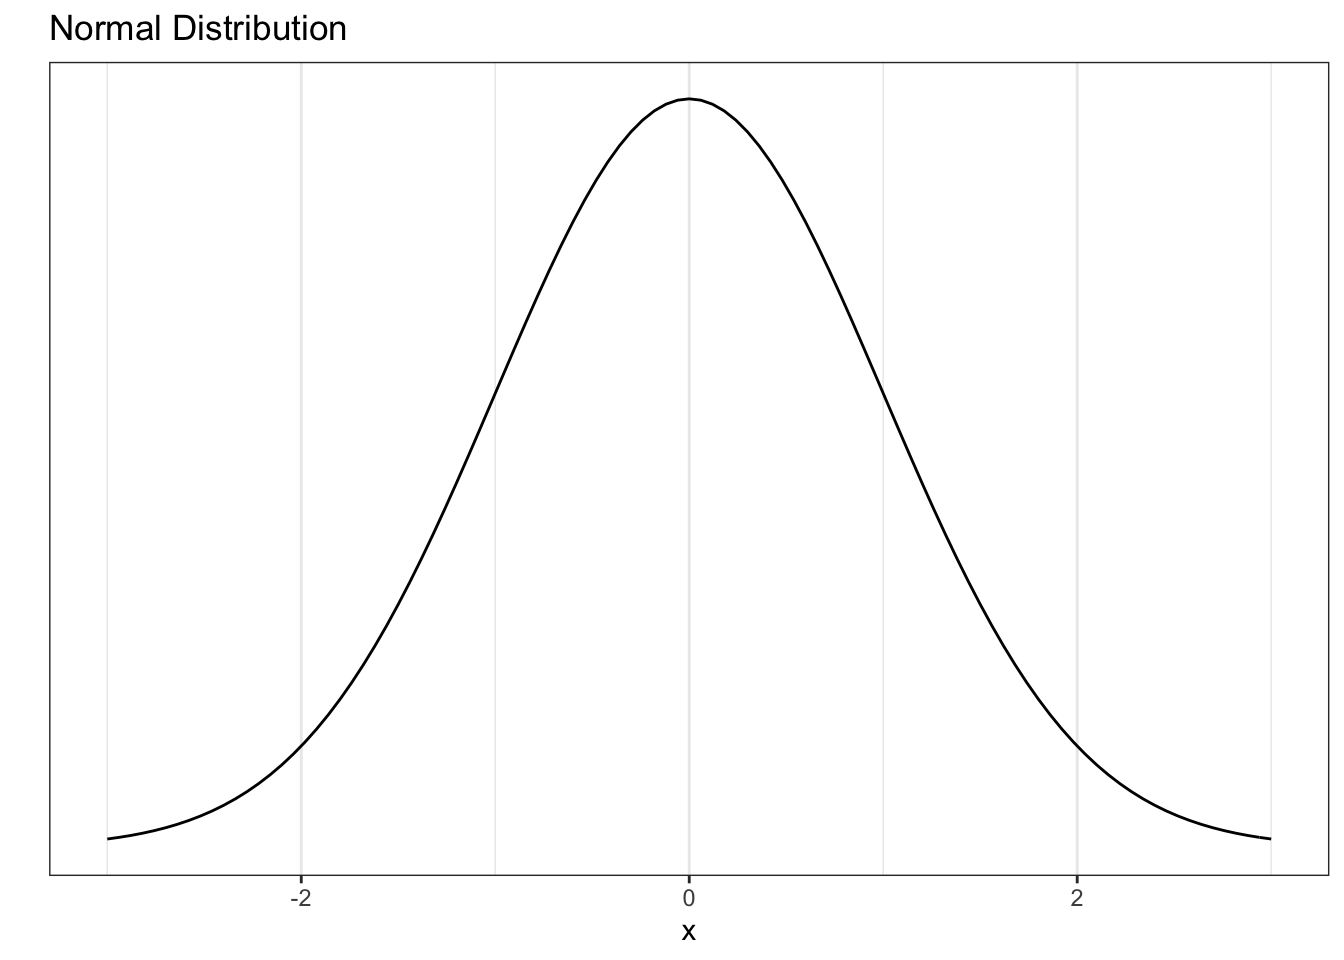
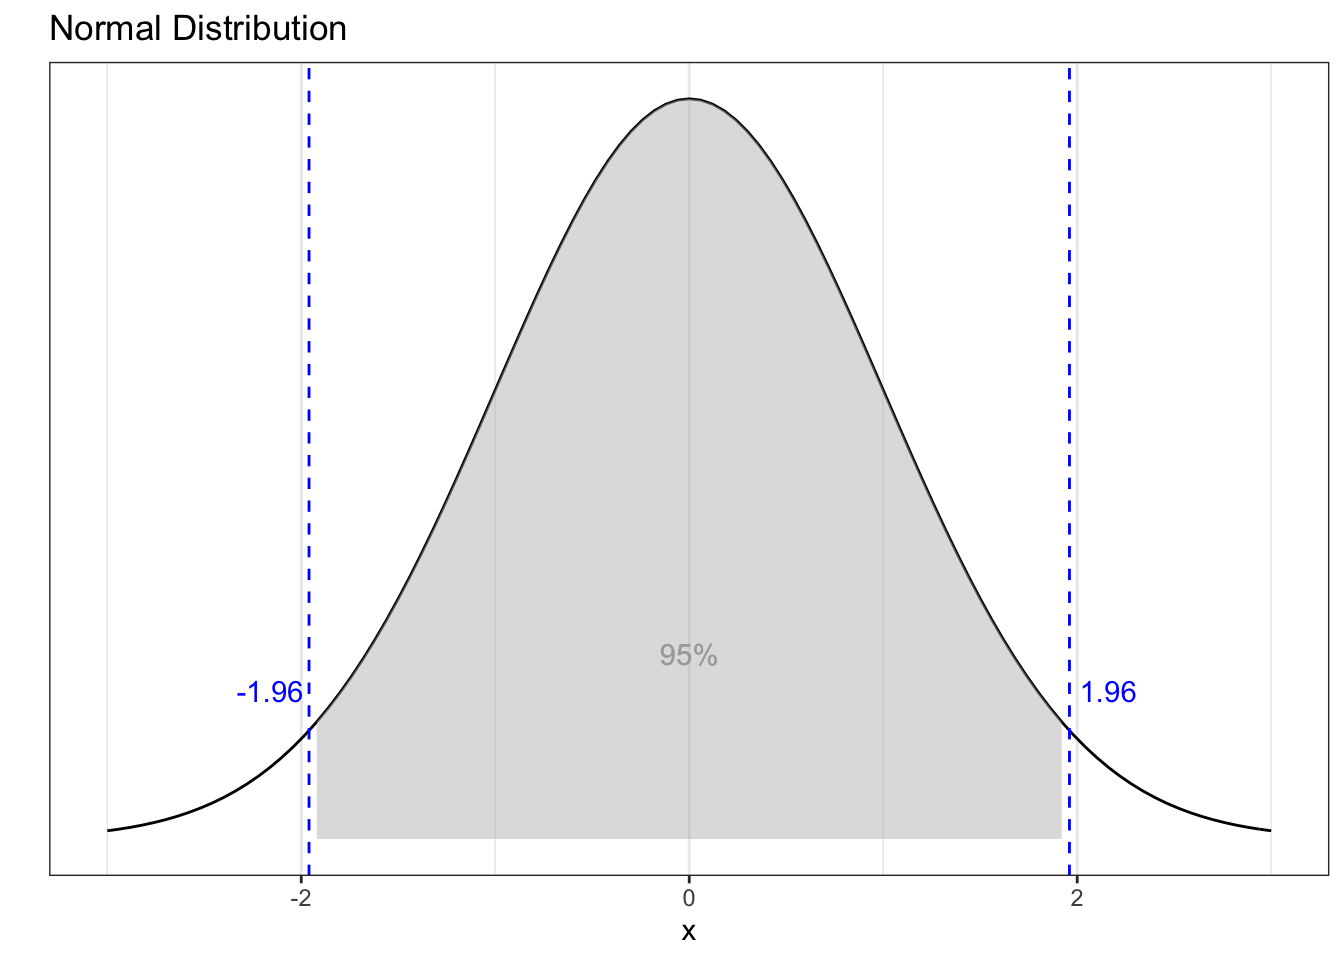
yeonkyupark published a site update

diff --git a/시각화.html b/시각화.html
@@ -156,7 +156,7 @@ code span.wa { color: #60a0b0; font-weight: bold; font-style: italic; } /* Warni
 <li class="chapter" data-level="2" data-path="데이터-전처리.html"><a href="데이터-전처리.html"><i class="fa fa-check"></i><b>2</b> 데이터 전처리<span></span></a></li>
 <li class="chapter" data-level="3" data-path="데이터-시각화.html"><a href="데이터-시각화.html"><i class="fa fa-check"></i><b>3</b> 데이터 시각화<span></span></a></li>
 <li class="part"><span><b>기계학습<span></span></b></span></li>
-<li class="part"><span><b>기계학습<span></span></b></span></li>
+<li class="part"><span><b>참고<span></span></b></span></li>
 <li class="chapter" data-level="4" data-path="시각화.html"><a href="시각화.html"><i class="fa fa-check"></i><b>4</b> 시각화<span></span></a><ul>
 <li class="chapter" data-level="4.1" data-path="시각화.html"><a href="시각화.html#확률분포-그래프-그리기"><i class="fa fa-check"></i><b>4.1</b> 확률분포 그래프 그리기<span></span></a></li>
 </ul></li>
@@ -187,11 +187,23 @@ code span.wa { color: #60a0b0; font-weight: bold; font-style: italic; } /* Warni
 <h1><span class="header-section-number">4</span> 시각화<a href="시각화.html#시각화" class="anchor-section" aria-label="Anchor link to header"></a></h1>
 <div id="확률분포-그래프-그리기" class="section level2 hasAnchor">
 <h2><span class="header-section-number">4.1</span> 확률분포 그래프 그리기<a href="시각화.html#확률분포-그래프-그리기" class="anchor-section" aria-label="Anchor link to header"></a></h2>
-<div class="sourceCode" id="cb2"><pre class="sourceCode r"><code class="sourceCode r"><span id="cb2-1"><a href="시각화.html#cb2-1"></a><span class="kw">ggplot</span>(<span class="dt">data =</span> <span class="kw">data.frame</span>(<span class="dt">x =</span> <span class="kw">c</span>(<span class="op">-</span><span class="dv">3</span>, <span class="dv">3</span>)), <span class="kw">aes</span>(x)) <span class="op">+</span></span>
-<span id="cb2-2"><a href="시각화.html#cb2-2"></a><span class="st">  </span><span class="kw">stat_function</span>(<span class="dt">fun =</span> dnorm, <span class="dt">n =</span> <span class="dv">101</span>, <span class="dt">args =</span> <span class="kw">list</span>(<span class="dt">mean =</span> <span class="dv">0</span>, <span class="dt">sd =</span> <span class="dv">1</span>)) <span class="op">+</span><span class="st"> </span></span>
-<span id="cb2-3"><a href="시각화.html#cb2-3"></a><span class="st">  </span><span class="kw">labs</span>(<span class="dt">title =</span> <span class="st">&quot;Normal Distribution&quot;</span>, <span class="dt">x=</span><span class="st">&quot;x&quot;</span>, <span class="dt">y=</span><span class="st">&quot;&quot;</span>) <span class="op">+</span></span>
-<span id="cb2-4"><a href="시각화.html#cb2-4"></a><span class="st">  </span><span class="kw">scale_y_continuous</span>(<span class="dt">breaks =</span> <span class="ot">NULL</span>) <span class="op">+</span></span>
-<span id="cb2-5"><a href="시각화.html#cb2-5"></a><span class="st">  </span><span class="kw">theme_bw</span>()</span></code></pre></div>
+<div class="sourceCode" id="cb2"><pre class="sourceCode r"><code class="sourceCode r"><span id="cb2-1"><a href="시각화.html#cb2-1"></a>dnorm_range &lt;-<span class="st"> </span><span class="cf">function</span>(x) {</span>
+<span id="cb2-2"><a href="시각화.html#cb2-2"></a>  y &lt;-<span class="st"> </span><span class="kw">dnorm</span>(x)</span>
+<span id="cb2-3"><a href="시각화.html#cb2-3"></a>  y[x <span class="op">&lt;</span><span class="st"> </span><span class="fl">-1.96</span> <span class="op">|</span><span class="st"> </span>x <span class="op">&gt;</span><span class="st"> </span><span class="fl">1.96</span>] &lt;-<span class="st"> </span><span class="ot">NA</span></span>
+<span id="cb2-4"><a href="시각화.html#cb2-4"></a>  <span class="kw">return</span>(y)</span>
+<span id="cb2-5"><a href="시각화.html#cb2-5"></a>}</span>
+<span id="cb2-6"><a href="시각화.html#cb2-6"></a></span>
+<span id="cb2-7"><a href="시각화.html#cb2-7"></a><span class="kw">ggplot</span>(<span class="dt">data =</span> <span class="kw">data.frame</span>(<span class="dt">x =</span> <span class="kw">c</span>(<span class="op">-</span><span class="dv">3</span>, <span class="dv">3</span>)), <span class="kw">aes</span>(x)) <span class="op">+</span></span>
+<span id="cb2-8"><a href="시각화.html#cb2-8"></a><span class="st">  </span><span class="kw">stat_function</span>(<span class="dt">fun =</span> dnorm, <span class="dt">n =</span> <span class="dv">101</span>, <span class="dt">args =</span> <span class="kw">list</span>(<span class="dt">mean =</span> <span class="dv">0</span>, <span class="dt">sd =</span> <span class="dv">1</span>)) <span class="op">+</span><span class="st"> </span></span>
+<span id="cb2-9"><a href="시각화.html#cb2-9"></a><span class="st">  </span><span class="kw">stat_function</span>(<span class="dt">fun=</span>dnorm_range, <span class="dt">geom=</span><span class="st">&quot;area&quot;</span>, <span class="dt">fill=</span><span class="st">&quot;grey&quot;</span>, <span class="dt">alpha =</span> <span class="fl">.5</span>) <span class="op">+</span></span>
+<span id="cb2-10"><a href="시각화.html#cb2-10"></a><span class="st">  </span><span class="kw">geom_vline</span>(<span class="dt">xintercept =</span> <span class="kw">c</span>(<span class="op">-</span><span class="fl">1.96</span>, <span class="fl">1.96</span>), <span class="dt">col=</span><span class="st">&quot;blue&quot;</span>, <span class="dt">linetype=</span><span class="st">&quot;dashed&quot;</span>) <span class="op">+</span></span>
+<span id="cb2-11"><a href="시각화.html#cb2-11"></a><span class="st">  </span><span class="kw">geom_text</span>(<span class="dt">x=</span><span class="kw">c</span>(<span class="op">-</span><span class="fl">1.96-0.2</span>, <span class="fl">1.96+0.2</span>), <span class="dt">y=</span><span class="fl">0.08</span>, </span>
+<span id="cb2-12"><a href="시각화.html#cb2-12"></a>            <span class="kw">aes</span>(<span class="dt">label =</span> <span class="kw">c</span>(<span class="st">&quot;-1.96&quot;</span>, <span class="st">&quot;1.96&quot;</span>)),</span>
+<span id="cb2-13"><a href="시각화.html#cb2-13"></a>            <span class="dt">col=</span><span class="st">&quot;blue&quot;</span>) <span class="op">+</span></span>
+<span id="cb2-14"><a href="시각화.html#cb2-14"></a><span class="st">  </span><span class="kw">geom_text</span>(<span class="dt">x=</span><span class="dv">0</span>, <span class="dt">y=</span><span class="fl">0.1</span>, <span class="kw">aes</span>(<span class="dt">label =</span> <span class="st">&quot;95%&quot;</span>), <span class="dt">col=</span><span class="st">&quot;darkgray&quot;</span>) <span class="op">+</span></span>
+<span id="cb2-15"><a href="시각화.html#cb2-15"></a><span class="st">  </span><span class="kw">labs</span>(<span class="dt">title =</span> <span class="st">&quot;Normal Distribution&quot;</span>, <span class="dt">x=</span><span class="st">&quot;x&quot;</span>, <span class="dt">y=</span><span class="st">&quot;&quot;</span>) <span class="op">+</span></span>
+<span id="cb2-16"><a href="시각화.html#cb2-16"></a><span class="st">  </span><span class="kw">scale_y_continuous</span>(<span class="dt">breaks =</span> <span class="ot">NULL</span>) <span class="op">+</span></span>
+<span id="cb2-17"><a href="시각화.html#cb2-17"></a><span class="st">  </span><span class="kw">theme_bw</span>()</span></code></pre></div>
 <p><img src="_main_files/figure-html/unnamed-chunk-6-1.png" width="672" /></p>
 
 </div>

diff --git a/404.html b/404.html
@@ -156,7 +156,7 @@ code span.wa { color: #60a0b0; font-weight: bold; font-style: italic; } /* Warni
 <li class="chapter" data-level="2" data-path="데이터-전처리.html"><a href="데이터-전처리.html"><i class="fa fa-check"></i><b>2</b> 데이터 전처리<span></span></a></li>
 <li class="chapter" data-level="3" data-path="데이터-시각화.html"><a href="데이터-시각화.html"><i class="fa fa-check"></i><b>3</b> 데이터 시각화<span></span></a></li>
 <li class="part"><span><b>기계학습<span></span></b></span></li>
-<li class="part"><span><b>기계학습<span></span></b></span></li>
+<li class="part"><span><b>참고<span></span></b></span></li>
 <li class="chapter" data-level="4" data-path="시각화.html"><a href="시각화.html"><i class="fa fa-check"></i><b>4</b> 시각화<span></span></a><ul>
 <li class="chapter" data-level="4.1" data-path="시각화.html"><a href="시각화.html#확률분포-그래프-그리기"><i class="fa fa-check"></i><b>4.1</b> 확률분포 그래프 그리기<span></span></a></li>
 </ul></li>

diff --git a/index.html b/index.html
@@ -156,7 +156,7 @@ code span.wa { color: #60a0b0; font-weight: bold; font-style: italic; } /* Warni
 <li class="chapter" data-level="2" data-path="데이터-전처리.html"><a href="데이터-전처리.html"><i class="fa fa-check"></i><b>2</b> 데이터 전처리<span></span></a></li>
 <li class="chapter" data-level="3" data-path="데이터-시각화.html"><a href="데이터-시각화.html"><i class="fa fa-check"></i><b>3</b> 데이터 시각화<span></span></a></li>
 <li class="part"><span><b>기계학습<span></span></b></span></li>
-<li class="part"><span><b>기계학습<span></span></b></span></li>
+<li class="part"><span><b>참고<span></span></b></span></li>
 <li class="chapter" data-level="4" data-path="시각화.html"><a href="시각화.html"><i class="fa fa-check"></i><b>4</b> 시각화<span></span></a><ul>
 <li class="chapter" data-level="4.1" data-path="시각화.html"><a href="시각화.html#확률분포-그래프-그리기"><i class="fa fa-check"></i><b>4.1</b> 확률분포 그래프 그리기<span></span></a></li>
 </ul></li>

diff --git a/데이터-검정.html b/데이터-검정.html
@@ -156,7 +156,7 @@ code span.wa { color: #60a0b0; font-weight: bold; font-style: italic; } /* Warni
 <li class="chapter" data-level="2" data-path="데이터-전처리.html"><a href="데이터-전처리.html"><i class="fa fa-check"></i><b>2</b> 데이터 전처리<span></span></a></li>
 <li class="chapter" data-level="3" data-path="데이터-시각화.html"><a href="데이터-시각화.html"><i class="fa fa-check"></i><b>3</b> 데이터 시각화<span></span></a></li>
 <li class="part"><span><b>기계학습<span></span></b></span></li>
-<li class="part"><span><b>기계학습<span></span></b></span></li>
+<li class="part"><span><b>참고<span></span></b></span></li>
 <li class="chapter" data-level="4" data-path="시각화.html"><a href="시각화.html"><i class="fa fa-check"></i><b>4</b> 시각화<span></span></a><ul>
 <li class="chapter" data-level="4.1" data-path="시각화.html"><a href="시각화.html#확률분포-그래프-그리기"><i class="fa fa-check"></i><b>4.1</b> 확률분포 그래프 그리기<span></span></a></li>
 </ul></li>

diff --git a/데이터-시각화.html b/데이터-시각화.html
@@ -156,7 +156,7 @@ code span.wa { color: #60a0b0; font-weight: bold; font-style: italic; } /* Warni
 <li class="chapter" data-level="2" data-path="데이터-전처리.html"><a href="데이터-전처리.html"><i class="fa fa-check"></i><b>2</b> 데이터 전처리<span></span></a></li>
 <li class="chapter" data-level="3" data-path="데이터-시각화.html"><a href="데이터-시각화.html"><i class="fa fa-check"></i><b>3</b> 데이터 시각화<span></span></a></li>
 <li class="part"><span><b>기계학습<span></span></b></span></li>
-<li class="part"><span><b>기계학습<span></span></b></span></li>
+<li class="part"><span><b>참고<span></span></b></span></li>
 <li class="chapter" data-level="4" data-path="시각화.html"><a href="시각화.html"><i class="fa fa-check"></i><b>4</b> 시각화<span></span></a><ul>
 <li class="chapter" data-level="4.1" data-path="시각화.html"><a href="시각화.html#확률분포-그래프-그리기"><i class="fa fa-check"></i><b>4.1</b> 확률분포 그래프 그리기<span></span></a></li>
 </ul></li>

diff --git a/데이터-전처리.html b/데이터-전처리.html
@@ -156,7 +156,7 @@ code span.wa { color: #60a0b0; font-weight: bold; font-style: italic; } /* Warni
 <li class="chapter" data-level="2" data-path="데이터-전처리.html"><a href="데이터-전처리.html"><i class="fa fa-check"></i><b>2</b> 데이터 전처리<span></span></a></li>
 <li class="chapter" data-level="3" data-path="데이터-시각화.html"><a href="데이터-시각화.html"><i class="fa fa-check"></i><b>3</b> 데이터 시각화<span></span></a></li>
 <li class="part"><span><b>기계학습<span></span></b></span></li>
-<li class="part"><span><b>기계학습<span></span></b></span></li>
+<li class="part"><span><b>참고<span></span></b></span></li>
 <li class="chapter" data-level="4" data-path="시각화.html"><a href="시각화.html"><i class="fa fa-check"></i><b>4</b> 시각화<span></span></a><ul>
 <li class="chapter" data-level="4.1" data-path="시각화.html"><a href="시각화.html#확률분포-그래프-그리기"><i class="fa fa-check"></i><b>4.1</b> 확률분포 그래프 그리기<span></span></a></li>
 </ul></li>

diff --git a/데이터-탐색.html b/데이터-탐색.html
@@ -156,7 +156,7 @@ code span.wa { color: #60a0b0; font-weight: bold; font-style: italic; } /* Warni
 <li class="chapter" data-level="2" data-path="데이터-전처리.html"><a href="데이터-전처리.html"><i class="fa fa-check"></i><b>2</b> 데이터 전처리<span></span></a></li>
 <li class="chapter" data-level="3" data-path="데이터-시각화.html"><a href="데이터-시각화.html"><i class="fa fa-check"></i><b>3</b> 데이터 시각화<span></span></a></li>
 <li class="part"><span><b>기계학습<span></span></b></span></li>
-<li class="part"><span><b>기계학습<span></span></b></span></li>
+<li class="part"><span><b>참고<span></span></b></span></li>
 <li class="chapter" data-level="4" data-path="시각화.html"><a href="시각화.html"><i class="fa fa-check"></i><b>4</b> 시각화<span></span></a><ul>
 <li class="chapter" data-level="4.1" data-path="시각화.html"><a href="시각화.html#확률분포-그래프-그리기"><i class="fa fa-check"></i><b>4.1</b> 확률분포 그래프 그리기<span></span></a></li>
 </ul></li>
